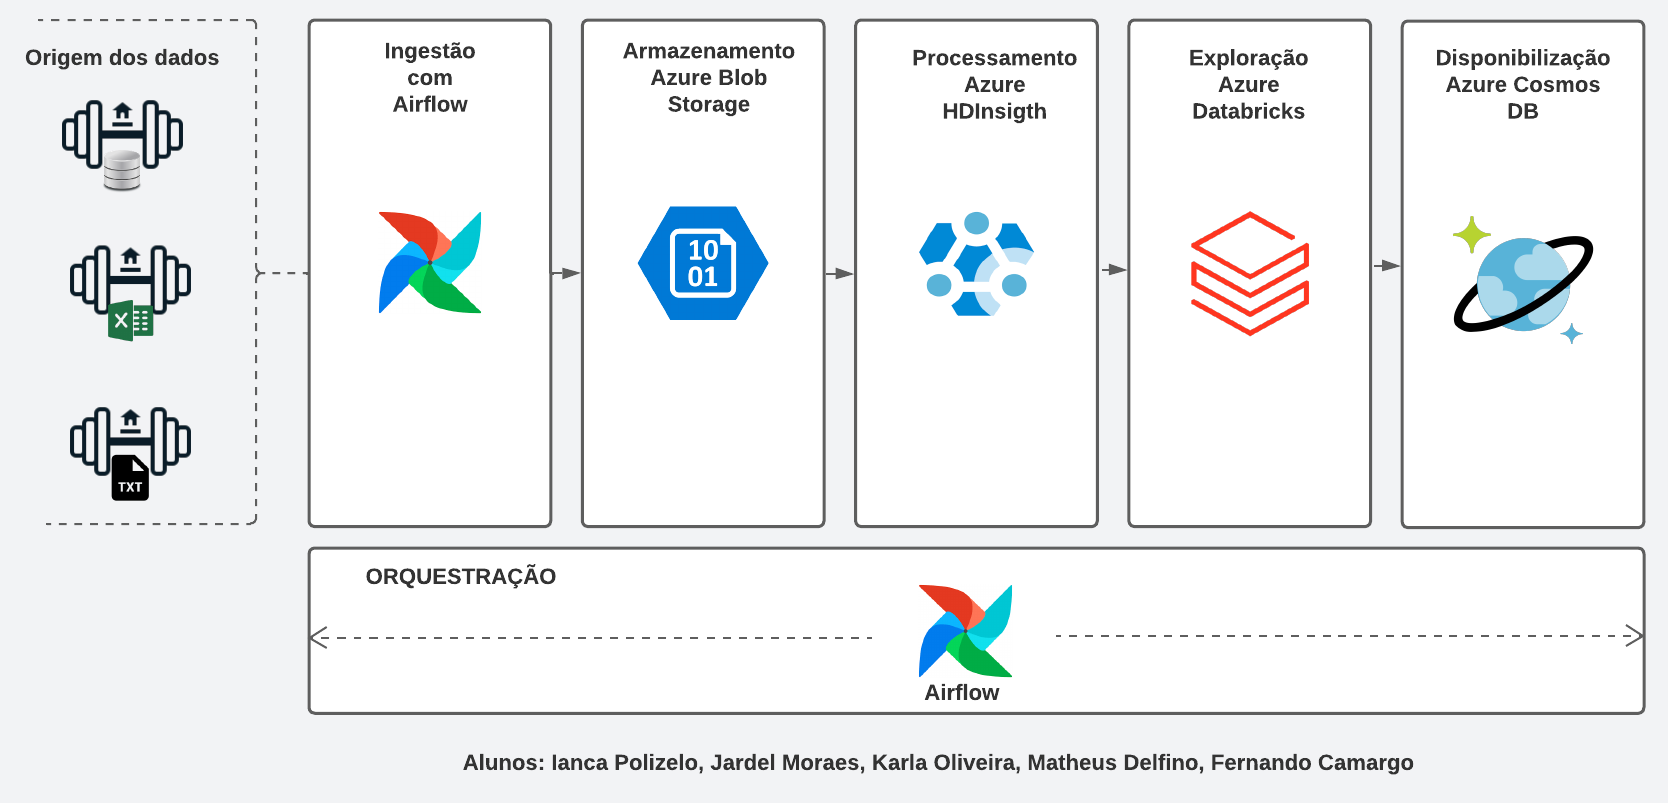
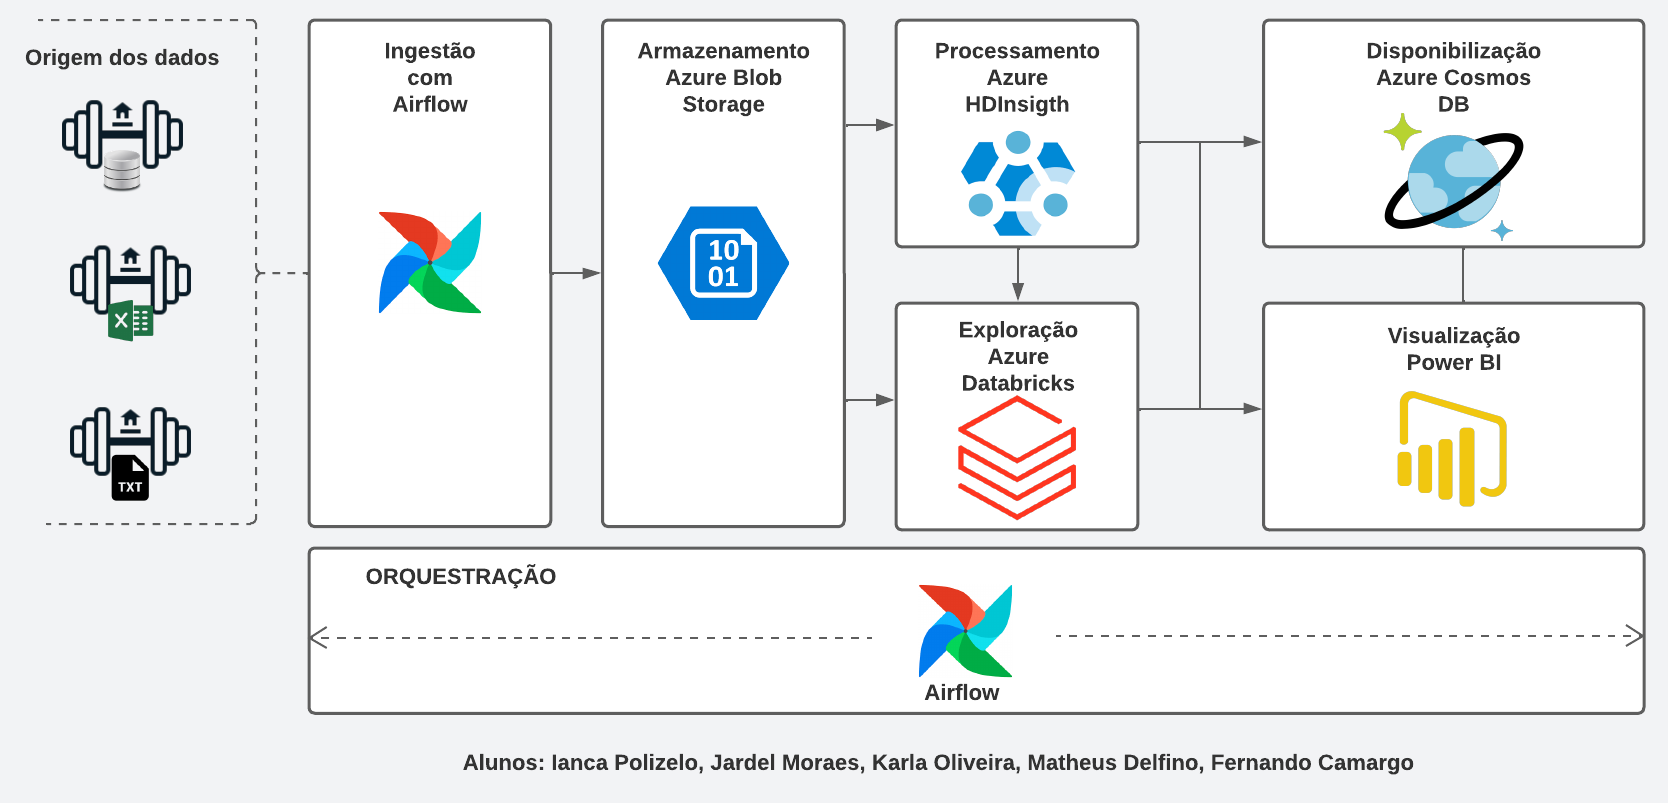
Atualização e melhorias

Changed region(s): [[0.3429, 0.0, 0.9976, 0.6849], [0.717, 0.0623, 0.7794, 0.1868], [0.717, 0.4981, 0.7794, 0.5293]]

diff --git a/BigData/Readme.md b/BigData/Readme.md
@@ -26,4 +26,6 @@
     - Databricks: Ferramenta que permite a exploração dos dados, com a possibilidade de utilizar linguagens como Python, Scala, SQL, R, Java, etc. <br />
  
 **6) Camada de Disponibilização:**<br />
-    - Cosmos DB via API: Armazena os dados já processados e disponibiliza via API para o usuário final. 
+    - Cosmos DB via API: Armazena os dados já processados e disponibiliza via API para o usuário final.<br />
+**7) Camada de Visualização:**<br />
+    - Power BI: Ferramenta de visualização de dados que permite a criação de dashboards e relatórios.
